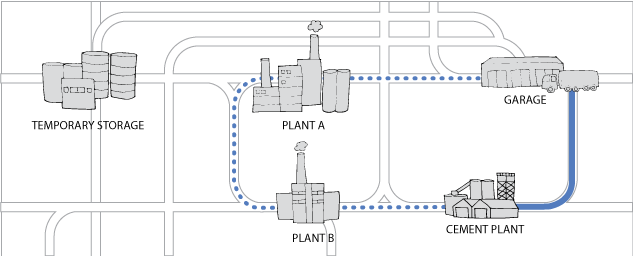
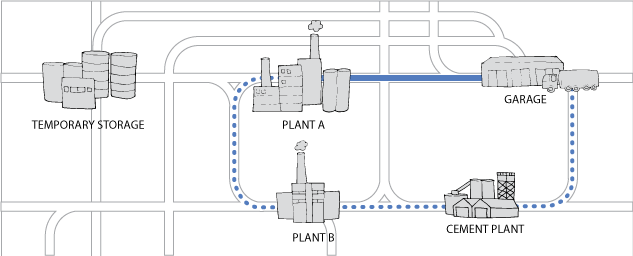
routing in logistics done

diff --git a/logistics.html b/logistics.html
@@ -54,31 +54,31 @@
                   <table class="table table-striped table-bordered myTable">
                     <thead>
                       <tr>
-                        <th>Source</th>
+                        <th>Destination</th>
                         <th>Quantity</th>
                         <th>Done</th>
                       </tr>
                     </thead>
                     <tbody>
                       <tr>
-                        <td>20T</td>
                         <td>Plant A</td>
-                        <td><input type="checkbox"></td>
+                        <td>25 T</td>
+                        <td><input type="checkbox" id="flyAshStep1"></td>
                       </tr>
                       <tr>
-                        <td>40T</td>
                         <td>Plant B</td>
-                        <td><input type="checkbox"></td>
+                        <td>25 T</td>
+                        <td><input type="checkbox" id="flyAshStep2"></td>
                       </tr>
                       <tr>
-                        <td>40T</td>
-                        <td>Plant B</td>
-                        <td><input type="checkbox"></td>
+                        <td>Cement Plant</td>
+                        <td>- 50 T</td>
+                        <td><input type="checkbox" id="flyAshStep3"></td>
                       </tr>
                       <tr>
-                        <td>40T</td>
-                        <td>Plant B</td>
-                        <td><input type="checkbox"></td>
+                        <td>Garage</td>
+                        <td> -- </td>
+                        <td><input type="checkbox" id="flyAshStep4"></td>
                       </tr>
                     </tbody>
                   </table>
@@ -101,22 +101,22 @@
                       <tr>
                         <td>20T</td>
                         <td>Plant A</td>
-                        <td><input type="checkbox"></td>
+                        <td><input type="checkbox" id="bottomAshStep1"></td>
                       </tr>
                       <tr>
                         <td>40T</td>
                         <td>Plant B</td>
-                        <td><input type="checkbox"></td>
+                        <td><input type="checkbox" id="bottomAshStep2"></td>
                       </tr>
                       <tr>
                         <td>40T</td>
                         <td>Plant B</td>
-                        <td><input type="checkbox"></td>
+                        <td><input type="checkbox" id="bottomAshStep3"></td>
                       </tr>
                       <tr>
                         <td>40T</td>
                         <td>Plant B</td>
-                        <td><input type="checkbox"></td>
+                        <td><input type="checkbox" id="bottomAshStep4"></td>
                       </tr>
                     </tbody>
                   </table>
@@ -135,24 +135,65 @@
     <script src="bootstrap.min.js"></script>
     <script>
 
+      $('#flyAshStep1').click(function() {
+          //console.log('flyAshStep1 checked');
+          $('#mapImage').attr("src", "/map_b2.png");
+      });
+
+      $('#flyAshStep2').click(function() {
+          //console.log('flyAshStep2 checked');
+          $('#mapImage').attr("src", "/map_b3.png");
+      });
+
+      $('#flyAshStep3').click(function() {
+          //console.log('flyAshStep1 checked');
+          $('#mapImage').attr("src", "/map_b4.png");
+      });
+
+      $('#flyAshStep4').click(function() {
+          //console.log('flyAshStep1 checked');
+          $('#mapImage').attr("src", "/map_b5.png");
+      });
+
+      $('#bottomAshStep1').click(function() {
+          //console.log('flyAshStep1 checked');
+          $('#mapImage').attr("src", "/map_r2.png");
+      });
+
+      $('#bottomAshStep2').click(function() {
+          //console.log('flyAshStep1 checked');
+          $('#mapImage').attr("src", "/map_r3.png");
+      });
+
+      $('#bottomAshStep3').click(function() {
+          //console.log('flyAshStep1 checked');
+          $('#mapImage').attr("src", "/map_r4.png");
+      });
+
+      $('#bottomAshStep4').click(function() {
+          //console.log('flyAshStep1 checked');
+          $('#mapImage').attr("src", "/map_r5.png");
+      });
+
       $('.flyAshRouteTable').hide(); 
       $('.bottomAshRouteTable').hide(); 
     
       var socket = io();
         
       socket.on('feedback', function(msg){
-        // console.log('aFlyValue is: ' + msg.aFlyValue);
-        // console.log('bFlyValue is: ' + msg.bFlyValue);
+         console.log('aFlyValue is: ' + msg.aFlyValue);
+         console.log('bFlyValue is: ' + msg.bFlyValue);
         // console.log('aBottonValue is: ' + msg.aBottonValue);
         // console.log('bBottomValue is: ' + msg.bBottomValue);
 
-        if((msg.aFlyValue + msg.bFlyValue) >= 10){
+        if((msg.aFlyValue + msg.bFlyValue) >= 50){
           console.log('enough fly ash');
           sendFlyAshTruck();
         }
 
-        if((msg.aBottonValue + msg.bBottomValue) >= 10){
+        if((msg.aBottonValue + msg.bBottomValue) >= 50){
           console.log('enough bottom ash');
+          sendBottomAshTruck();
         }
       });
 
@@ -160,31 +201,13 @@
         $('#noOfFlyAshTrucks').html('2/3');
         $('#mapImage').attr("src", "/map_b1.png");
         $('.flyAshRouteTable').show();
-
-        
       }
 
-      ///////////// html javascript
-
-      // mech_photo_space.style.visibility='hidden';
-      // mech_dropdown_1.style.visibility='hidden';
-      // comments.style.visibility='hidden';
-
-      // $('#mech_addwork').click(function() {
-      //   mech_photo_space.style.visibility='visible';
-      //   mech_dropdown_1.style.visibility='visible';
-      //   comments.style.visibility='visible';
-      //   document.getElementById("mech_addwork").className = "btn-addedwork";
-        
-      // });
-
-      // var photo_space = document.getElementById("mech_photo_space");
-
-      // photo_space.addEventListener("click", function() {
-      //   console.log('img clicked');
-      //   $("#mech_photo_space").attr("src","/picsforforeman.png");
-      //   mech_work_added = true;
-      // });
+      var sendBottomAshTruck = function(){
+        $('#noOfBottomAshTrucks').html('2/3');
+        $('#mapImage').attr("src", "/map_r1.png");
+        $('.bottomAshRouteTable').show();
+      }
 
     </script>
   </body>

diff --git a/helen.html b/helen.html
@@ -24,10 +24,10 @@
                 <div class="content">
                   <h2>Plant A</h2>
                   <img src="/plant_a.png" class="plant_a">
-                    <h3>Fly Ash (<span id="aFlySliderVal">3</span>T) </h3>
-                    <input type="text" class="span2" value="4" id="aFly" data-slider-id='ex1Slider'>
-                    <h3>Bottom Ash (<span id="aBottomSliderVal">3</span>T) </h3>
-                    <input type="text" class="span2" value="4" id="aBottom" data-slider-id='ex2Slider'>
+                    <h3>Fly Ash (<span id="aFlySliderVal">20</span>T) </h3>
+                    <input type="text" class="span2" id="aFly" data-slider-id='ex1Slider' data-slider-value="20">
+                    <h3>Bottom Ash (<span id="aBottomSliderVal">5</span>T) </h3>
+                    <input type="text" class="span2" id="aBottom" data-slider-id='ex2Slider' data-slider-value="5">
                   <br>
                 </div>
               </div>
@@ -37,11 +37,11 @@
                 <div class="content">
                   <h2>Plant B</h2>
                   <img src="/plant_b.png" class="plant_b">
-                    <h3>Fly Ash (<span id="bFlySliderVal">3</span>T) </h3>
-                    <input type="text" class="span2" value="4" id="bFly" data-slider-id='ex1Slider'>
+                    <h3>Fly Ash (<span id="bFlySliderVal">25</span>T) </h3>
+                    <input type="text" class="span2" id="bFly" data-slider-id='ex1Slider' data-slider-value="25">
                  
-                    <h3>Bottom Ash (<span id="bBottomSliderVal">3</span>T) </h3>
-                    <input type="text" class="span2" value="4" id="bBottom" data-slider-id='ex2Slider'>
+                    <h3>Bottom Ash (<span id="bBottomSliderVal">40</span>T) </h3>
+                    <input type="text" class="span2" id="bBottom" data-slider-id='ex2Slider' data-slider-value="40">
                  
                   <br>
                 </div>
@@ -71,11 +71,11 @@
                     </thead>
                     <tbody>
                       <tr>
-                        <td>20T</td>
+                        <td>0T</td>
                         <td>Plant A</td>
                       </tr>
                       <tr>
-                        <td>40T</td>
+                        <td>0T</td>
                         <td>Plant B</td>
                       </tr>
                     </tbody>
@@ -99,11 +99,11 @@
                     </thead>
                     <tbody>
                       <tr>
-                        <td>20T</td>
+                        <td>0T</td>
                         <td>Plant A</td>
                       </tr>
                       <tr>
-                        <td>40T</td>
+                        <td>0T</td>
                         <td>Plant B</td>
                       </tr>
                     </tbody>
@@ -124,10 +124,10 @@
 
      var socket = io();
 
-     $('#aFly').slider();
-     $('#bFly').slider();
-     $('#aBottom').slider();
-     $('#bBottom').slider();
+     $('#aFly').slider({step: 5, min: 0, max: 50});
+     $('#bFly').slider({step: 5, min: 0, max: 50});
+     $('#aBottom').slider({step: 5, min: 0, max: 50});
+     $('#bBottom').slider({step: 5, min: 0, max: 50});
 
      var emitValues = function() {
         // var aFlyValueGot = aFly.getValue();
